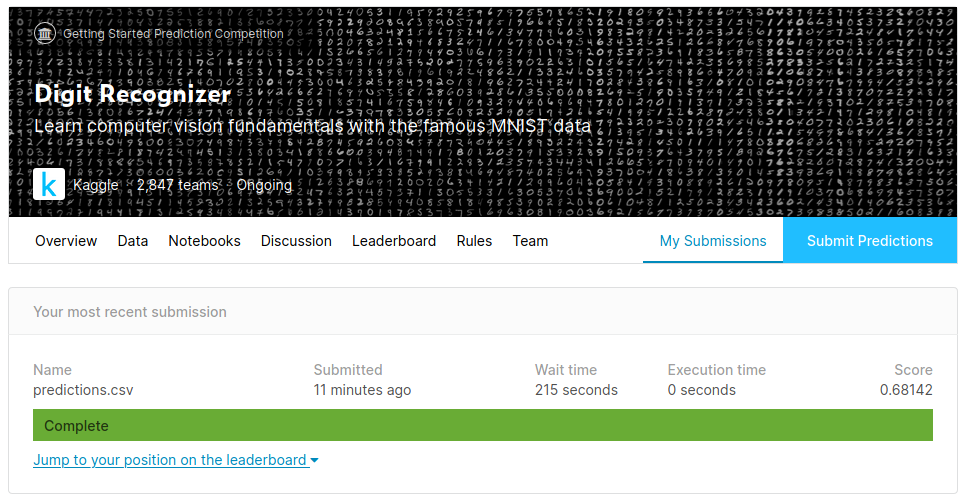
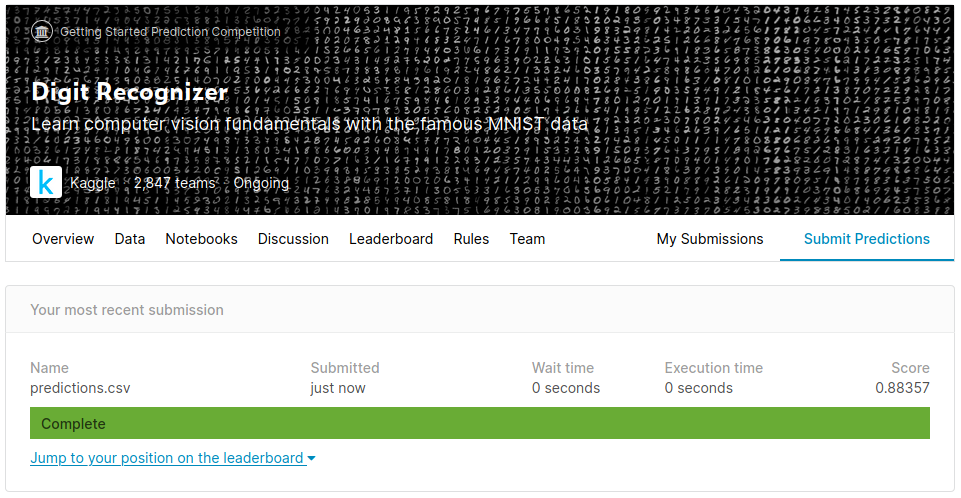
Better digit recognizer

diff --git a/examples/digit_recognizer/digit_recognizer.cpp b/examples/digit_recognizer/digit_recognizer.cpp
@@ -32,7 +32,7 @@ Tensor<double> LoadMnistX(const std::string &path) {
 }
 
 NeuralNetwork<double> BuildMnistNN() {
-    auto neural_network = NeuralNetwork<double>(std::make_unique<RMSPropOptimizer<double>>(),
+    auto neural_network = NeuralNetwork<double>(std::make_unique<RMSPropOptimizer<double>>(0.01),
                                                 std::make_unique<CategoricalCrossEntropyLoss<double>>());
     neural_network
             .AddLayer(std::make_unique<DenseLayer<double>>(784, 100))
